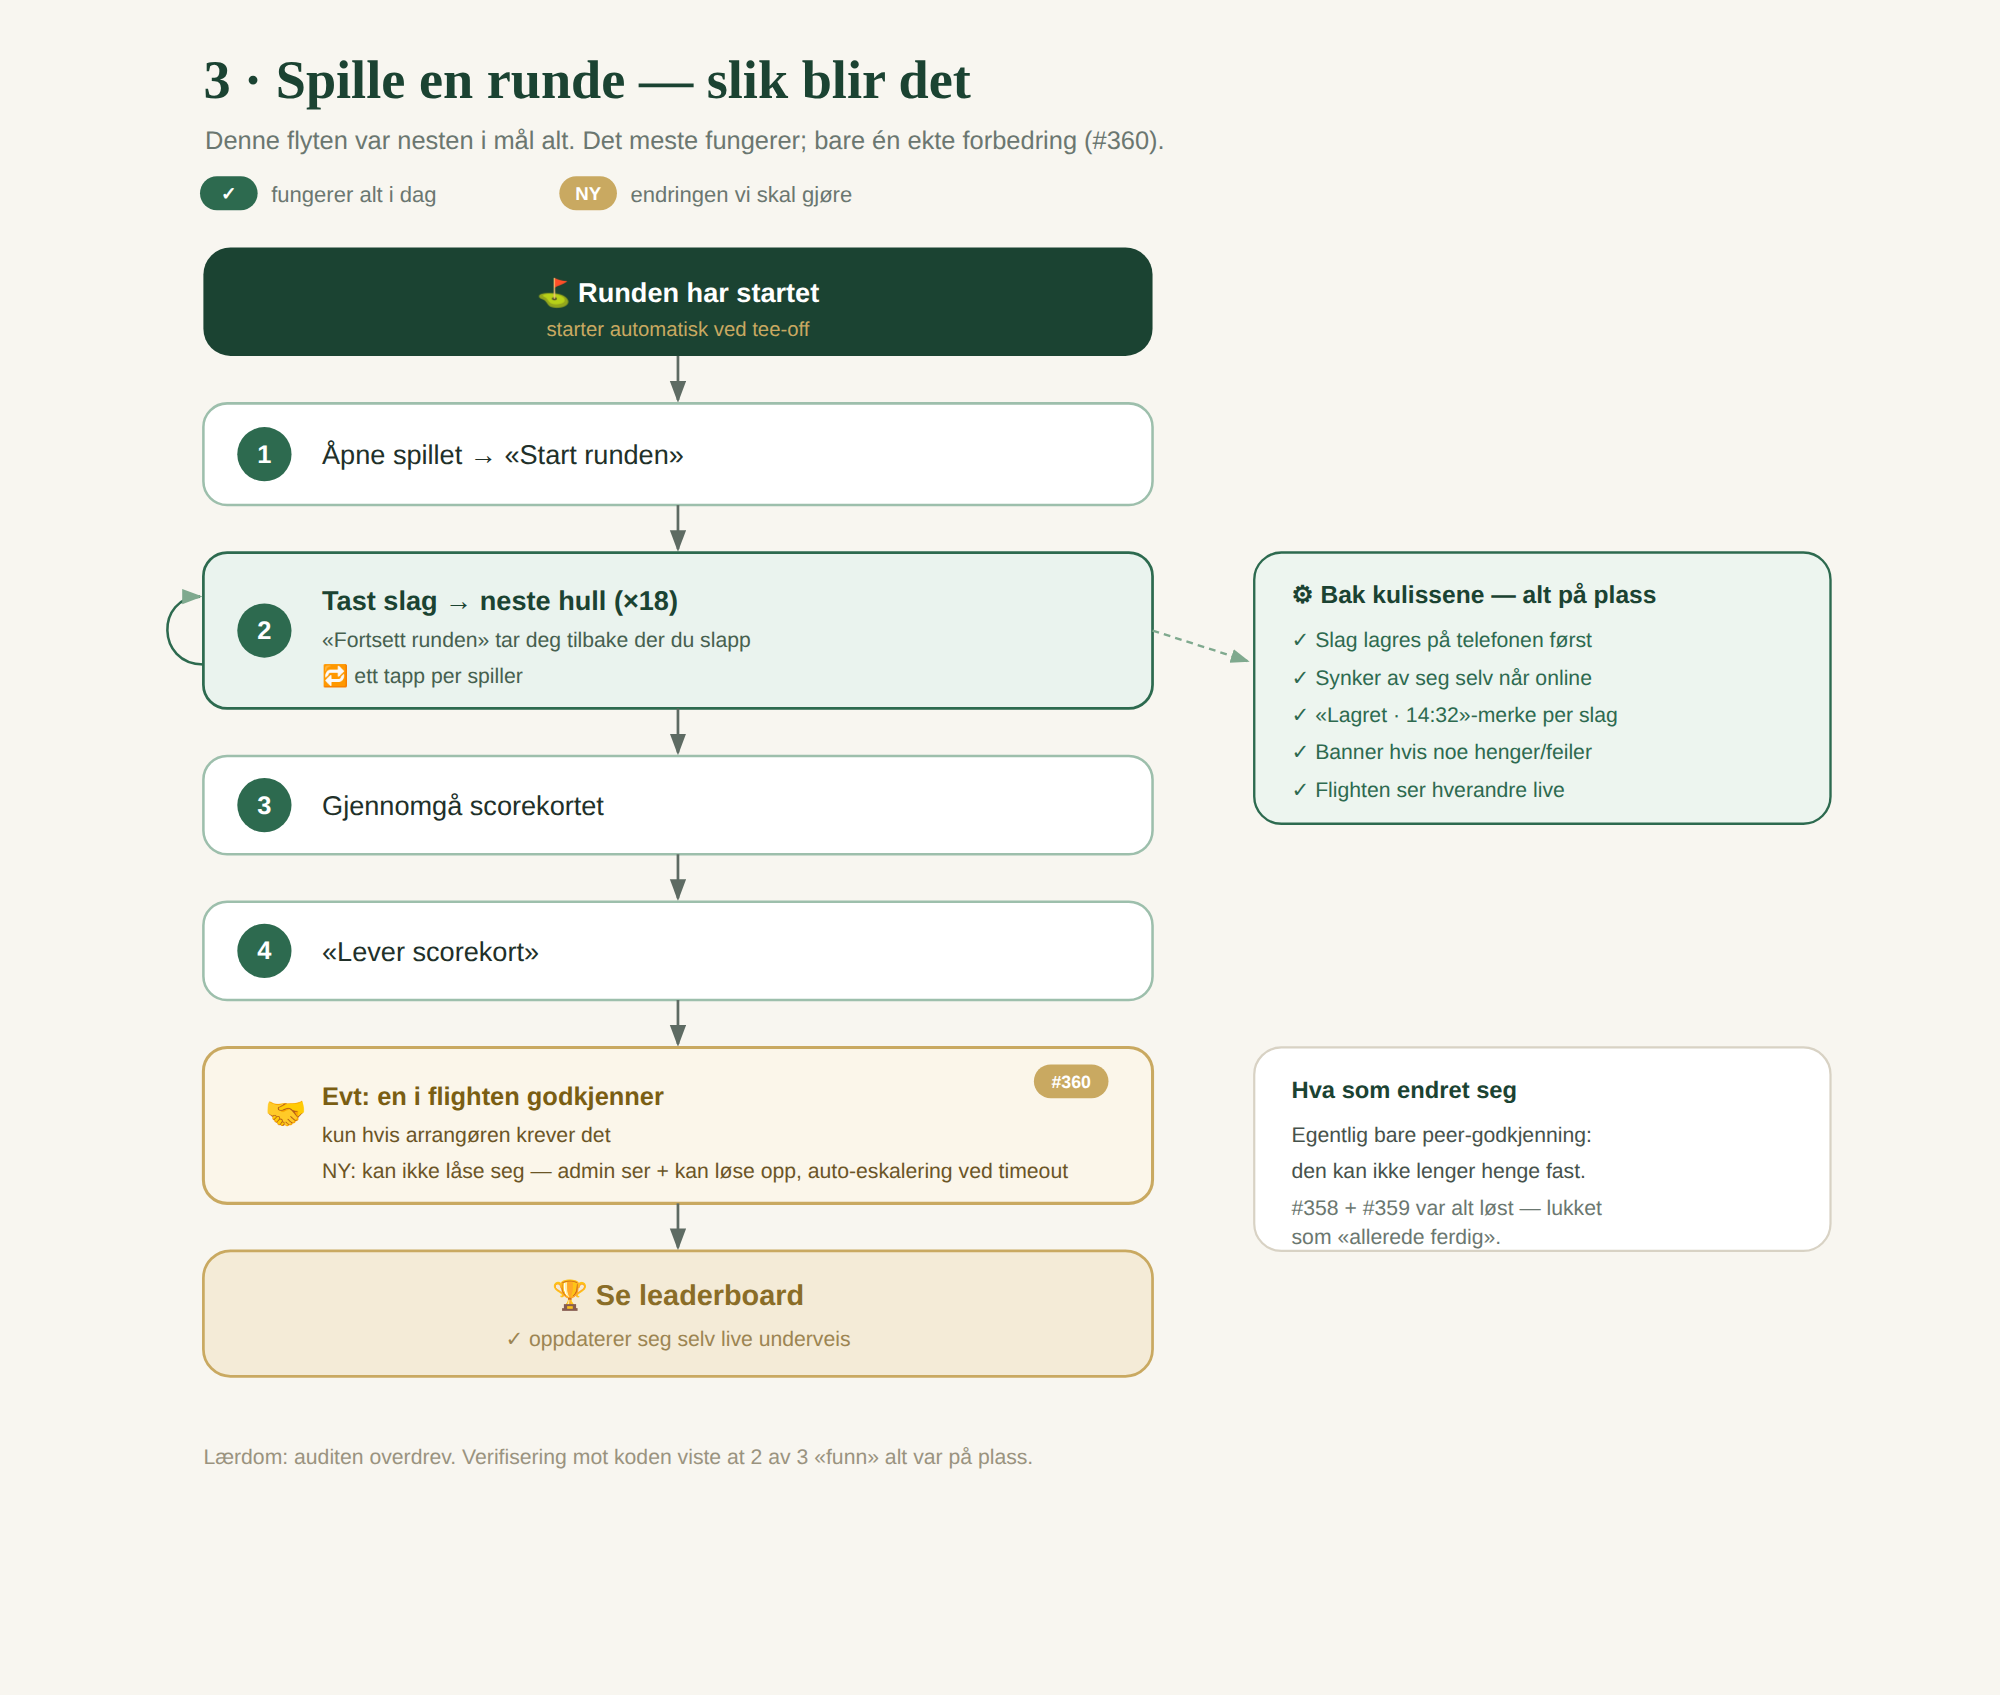
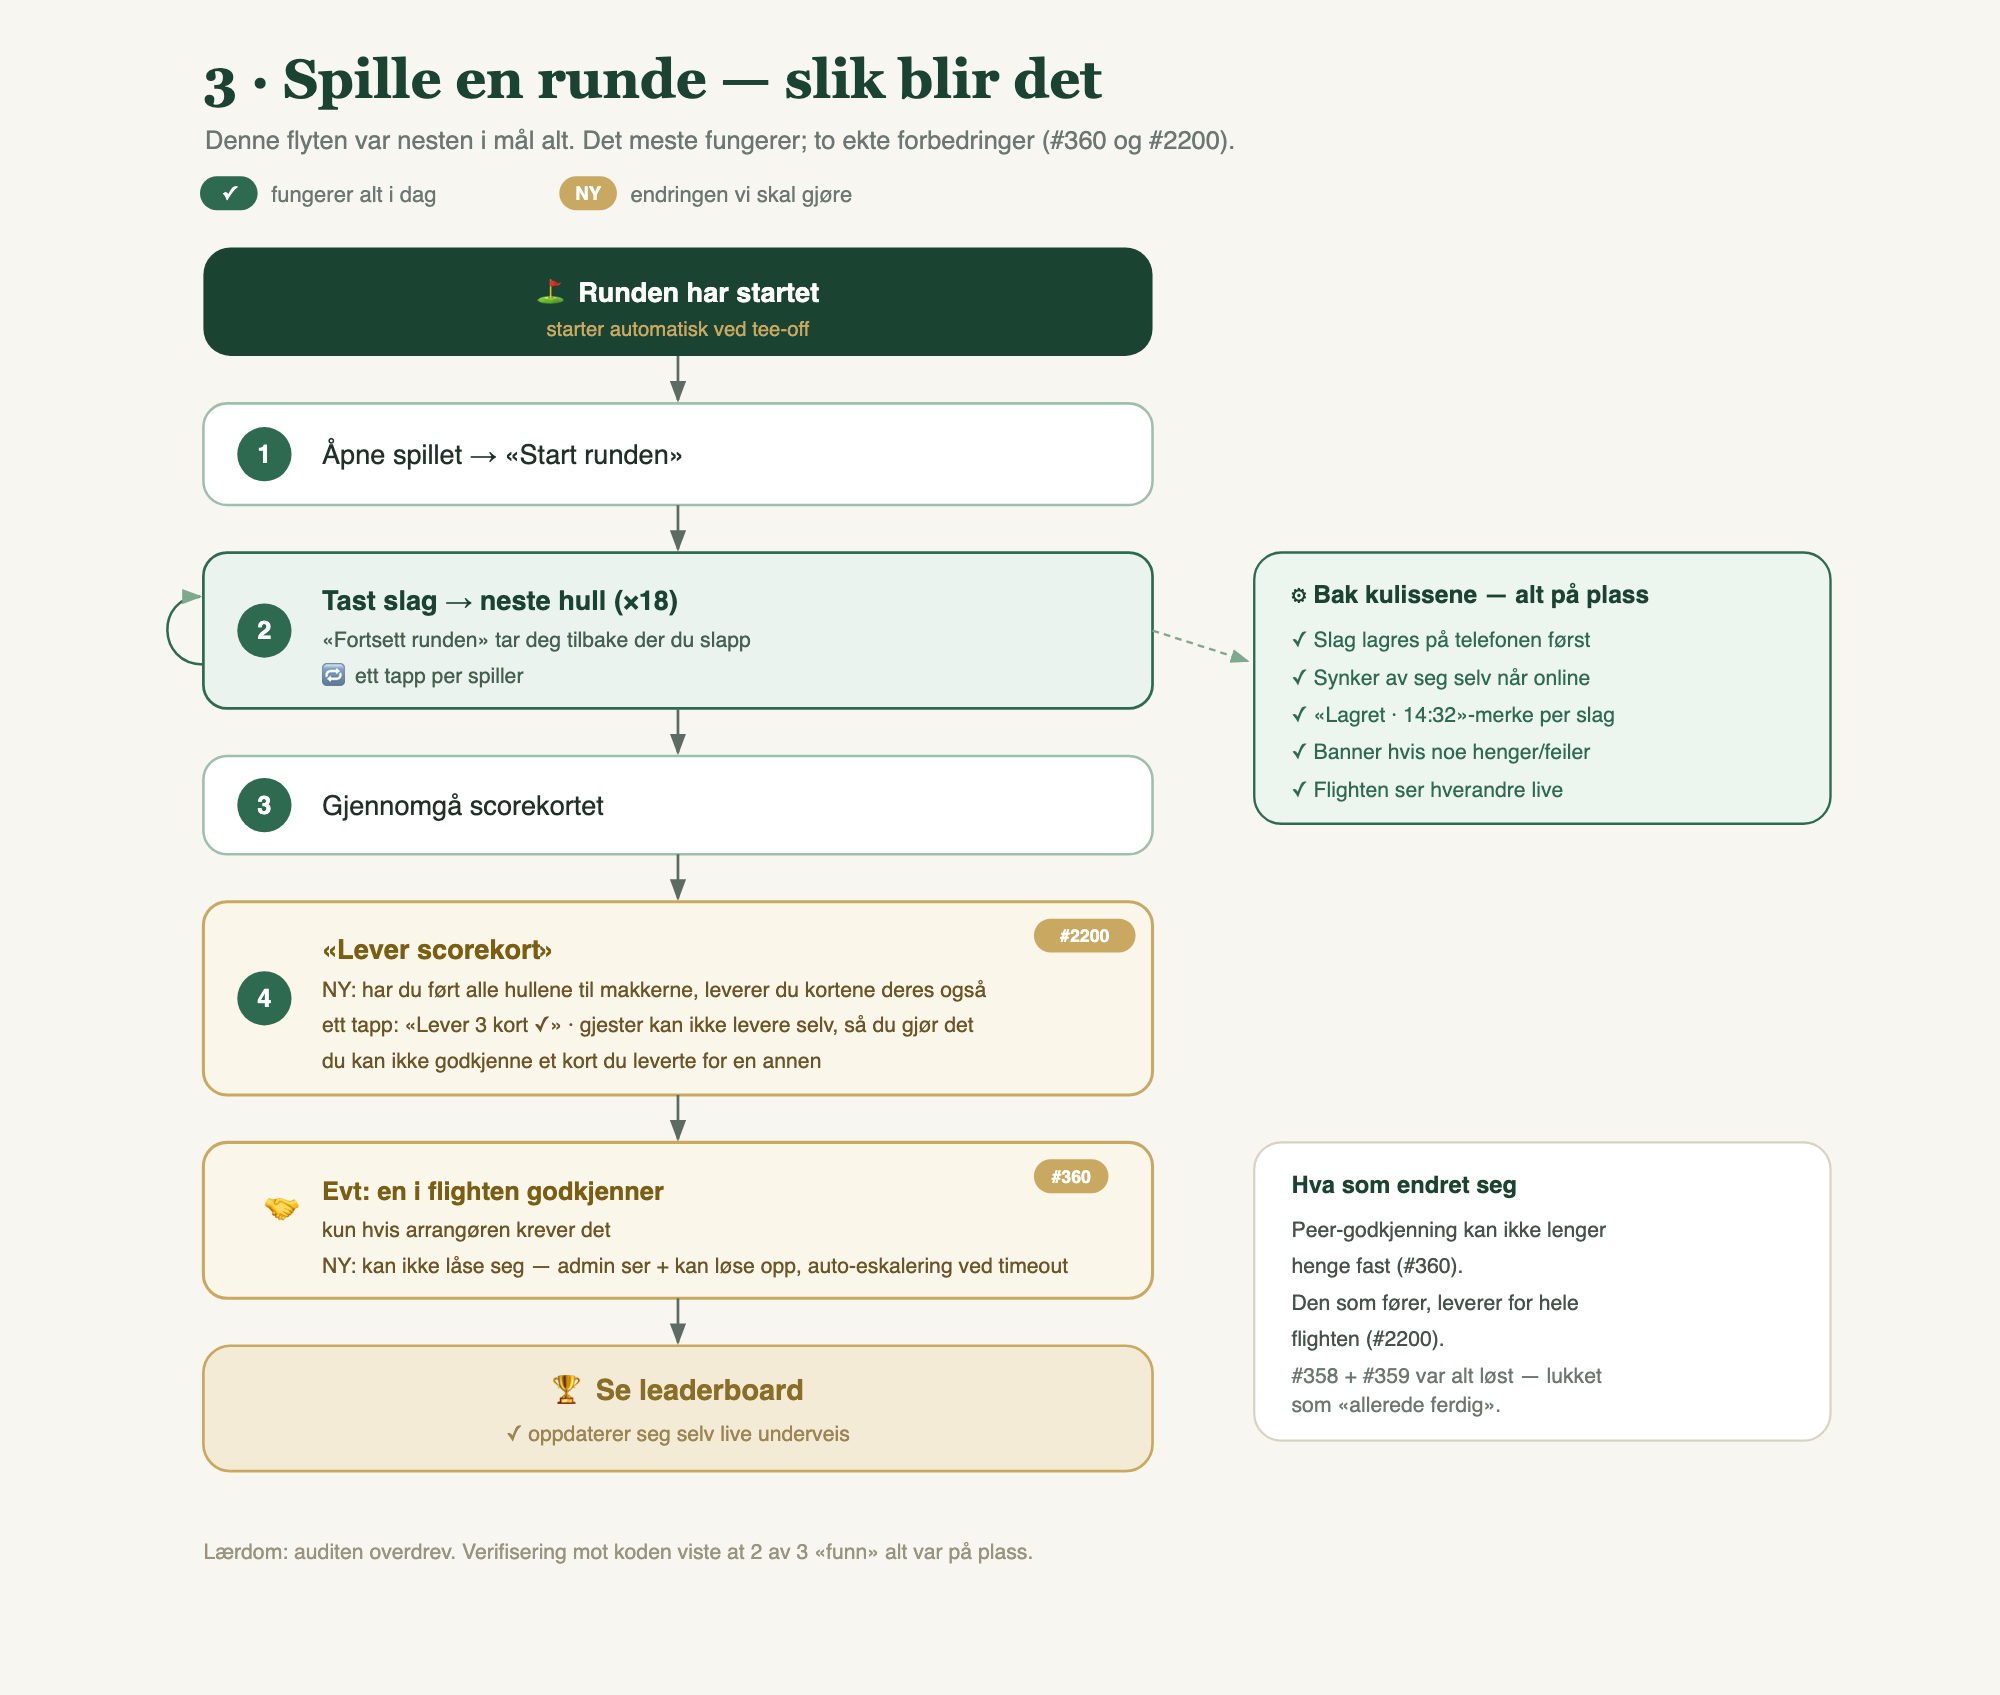
docs(flows): the scorekeeper delivers for the flight
Flyt 03 step 4 («Lever scorekort») becomes a NY #2200 box: the one
who kept every hole for the flightmates delivers their cards too with
one tap, guests are delivered by whoever keeps them, and you cannot
approve a card you delivered for someone else. Flyt 05 step 3 notes
that guests no longer need «Avslutt likevel» and the status page
shows «Levert av …». Both «Hva som endret seg» rails list #2200. PNGs
regenerated with regen-png.mjs; the eight untouched PNGs it rewrote
byte for byte were restored.

docs/user-flows.md (P3 game home, lever-side, approval; A2 status and
players page) and docs/schema-ground-truth.md (submitted_by_user_id,
the trigger, the guard's allowlist and approval rule) follow 0191.

Refs #2200
[no-changelog]

Claude-Session: https://claude.ai/code/session_01RvWKhfbo1RqnBErTPRyCLf

diff --git a/docs/user-flows.md b/docs/user-flows.md
@@ -147,11 +147,11 @@ flowchart LR
 
 | Steg | Rute / fil | Teknisk |
 |---|---|---|
-| Spill-hjem | `app/[locale]/games/[id]/(home)/page.tsx` | Auto-start: `scheduled→active` når tee-off passert (`startScheduledGame` + `after(revalidateTag)`). CTA: «Start runden» → «Fortsett» → «Gjennomgå og lever». Cachet `getGameWithPlayers` (tag `game-${id}`). |
+| Spill-hjem | `app/[locale]/games/[id]/(home)/page.tsx` | Auto-start: `scheduled→active` når tee-off passert (`startScheduledGame` + `after(revalidateTag)`). CTA: «Start runden» → «Fortsett» → «Gjennomgå og lever». Er ditt eget kort levert og du har ført kort i flighten som ikke er levert, viser siden «Lever kortene du har ført (N)» til lever-siden (#2200). Cachet `getGameWithPlayers` (tag `game-${id}`). |
 | Taste slag | `app/[locale]/games/[id]/holes/[holeNumber]/page.tsx` + `HoleClient.tsx` | Alle formater unntatt Bingo Bango Bongo taster på scoreskinna nederst (`ScoreRail` + `useScoreRail`, #2251): ett trykk setter scoren og går videre til neste spiller uten score. `writeScore()` → Dexie → sync-kø → `upsert_score_if_newer` RPC. Sync-worker drainer på online/focus/30s + service worker bakgrunns-sync. Realtime-merge per flight. RLS: eget + samme-flight under `active`. |
 | Gjennomgå | `app/[locale]/games/[id]/scorecard/page.tsx` | `resolveScorecardLayout` (solo 1 kolonne / lag fler-kolonne). Netto skjult under `reveal`-aktiv. |
-| Lever | `app/[locale]/games/[id]/submit/page.tsx` + `actions.ts` → `submitScorecard` | Setter `game_players.submitted_at`. Idempotent (`.is('submitted_at', null)`). Varsler peers + admin (`scorecardSubmittedNotification` Resend kun til off-app-admin). |
-| Godkjenn (peer) | `app/[locale]/games/[id]/approve/page.tsx` + `actions.ts` | `approveScorecard` / `rejectScorecard(reason)` (avvis nullstiller `submitted_at` for re-levering; i formatene med felles ball åpner avvisningen hele laget, #2213). Kortet leser eierens rader per hull, samme regel som lever-siden (#1577). |
+| Lever | `app/[locale]/games/[id]/submit/page.tsx` + `actions.ts` → `submitScorecard` | Setter `game_players.submitted_at`. Idempotent (`.is('submitted_at', null)`). Lever-siden tilbyr også kortene til dem i flighten du har ført alle hullene for, og gjestekort som er fullt ført, siden en gjest aldri kan logge inn: «Lever 3 kort ✓» leverer dem sammen med ditt eget (skjemafeltet `alsoFor` → `submitScorecardCore`, #2200). Regelen bor i `lib/games/flightDelivery.ts`, lesingen i `lib/games/loadFlightDelivery.ts`, appen går via `POST /api/games/[id]/submit-flight`, og hvem som leverte, står i `submitted_by_user_id` (0191). Varsler peers + admin (`scorecardSubmittedNotification` Resend kun til off-app-admin). |
+| Godkjenn (peer) | `app/[locale]/games/[id]/approve/page.tsx` + `actions.ts` | `approveScorecard` / `rejectScorecard(reason)` (avvis nullstiller `submitted_at` for re-levering; i formatene med felles ball åpner avvisningen hele laget, #2213). Kortet leser eierens rader per hull, samme regel som lever-siden (#1577). Den som leverte et kort for en annen, kan ikke godkjenne det; en annen i flighten eller arrangøren gjør det (`guard_game_players_self_update`, 0191, #2200). |
 
 ### P4 — Leaderboard
 
@@ -203,8 +203,8 @@ flowchart LR
 - **Start** (`startGame` / `startScheduledGameAction`): fryser course-handicap, `→ active`.
 - **Inviter** (`InviteToGameSection`): legg til eksisterende spiller eller inviter på e-post (Resend, spill-scoped).
 - **Påmeldinger** (`/admin/games/[id]/signups`): godkjenn/avvis manuelle forespørsler.
-- **Godkjenn/Åpne scorekort**: `adminApproveScorecard`, `reopenScorecard` (åpner hele laget i formatene med felles ball, #2213).
-- **Avslutt** (`endGame`): krever alle levert (+ godkjent hvis peer). Side-turnering → `/admin/games/[id]/avslutt` (velg LD/CTP-vinnere). `→ finished` + `gameFinishedNotification` (Resend, off-app). `reopenGame` reverserer; kortene står fortsatt som levert, admin åpner dem som skal rettes (#2213).
+- **Godkjenn/Åpne scorekort**: `adminApproveScorecard`, `reopenScorecard` (åpner hele laget i formatene med felles ball, #2213). Statussiden (`/admin/games/[id]/status`) og spillersiden (`/games/[id]/spillere`) viser «Levert av {navn}» på et kort en annen leverte (#2200); gjenåpning virker som før.
+- **Avslutt** (`endGame`): krever alle levert (+ godkjent hvis peer). En gjest kan ikke levere selv, men den som fører kortet, leverer det (#2200), så gjester trenger ikke lenger «Avslutt likevel». Side-turnering → `/admin/games/[id]/avslutt` (velg LD/CTP-vinnere). `→ finished` + `gameFinishedNotification` (Resend, off-app). `reopenGame` reverserer; kortene står fortsatt som levert, admin åpner dem som skal rettes (#2213).
 - **Rediger** (`/admin/games/[id]/edit`), **Slett** (`/admin/games/[id]/slett`, **dedikert side**, status-bevisst advarsel).
 
 ### A3 — Baner, spillere, cup, formater

diff --git a/docs/schema-ground-truth.md b/docs/schema-ground-truth.md
@@ -29,6 +29,12 @@ Typed clients (#672) make wrong column names a compile error — treat a red squ
   `accepted_at`, `submitted_at`, `approved_at`, `withdrawn_at`
   (plus `approved_by_user_id`, `withdrawn_by_user_id`, `rejection_reason`, `deliver_reminder_sent_at`).
 
+- **`submitted_by_user_id`** (migration 0191, #2200): who delivered the card: the player, or the
+  flightmate who kept score and delivered it for them. FK `users(id)`, no cascade. Owned by the
+  trigger `game_players_set_submitted_by`: a client-sent value is overwritten with `auth.uid()`
+  (the service role keeps what the server wrote). `null` for rows delivered before 0191 and
+  whenever `submitted_at` is null (reopen/rejection clears it).
+
 - **`team_number`**: nullable `int`. `CHECK = (team_number IS NULL OR team_number >= 1)`.
   **No upper bound.** The audit-era `1..4` was widened to `>=1` by migration 0101 (#669).
   Any doc that says `1..4` is **stale**.
@@ -41,9 +47,16 @@ Typed clients (#672) make wrong column names a compile error — treat a red squ
 
 - **Guard trigger `guard_game_players_self_update`** (migrations 0103/0106, #670/#704):
   - A player cannot self-approve their own scorecard or change their own `course_handicap` post-start.
-  - A peer may only touch approval columns on another player's row.
+  - A peer may only touch approval columns on another player's row. Since 0191 the peer allowlist
+    is `approved_at`, `approved_by_user_id`, `rejection_reason`, `submitted_at`, `submitted_by_user_id`.
+  - A peer may not approve a card they delivered themselves (0191, #2200): someone else in the
+    flight, or the organiser, approves it. Clearing an approval stays allowed.
   - The game **creator** is explicitly exempted so roster editing still works.
   - A `BEFORE UPDATE` trigger enforcing column-level rules that RLS `USING`/`WITH CHECK` clauses can't express on their own (it inspects which columns changed).
+
+- **Trigger `game_players_set_submitted_by`** (0191, #2200): `BEFORE INSERT OR UPDATE`, sets
+  `submitted_by_user_id` (see above). Its name sorts before `guard_*`, and Postgres fires
+  same-event triggers in name order, so the guard sees the final value.
 
 ---
 
